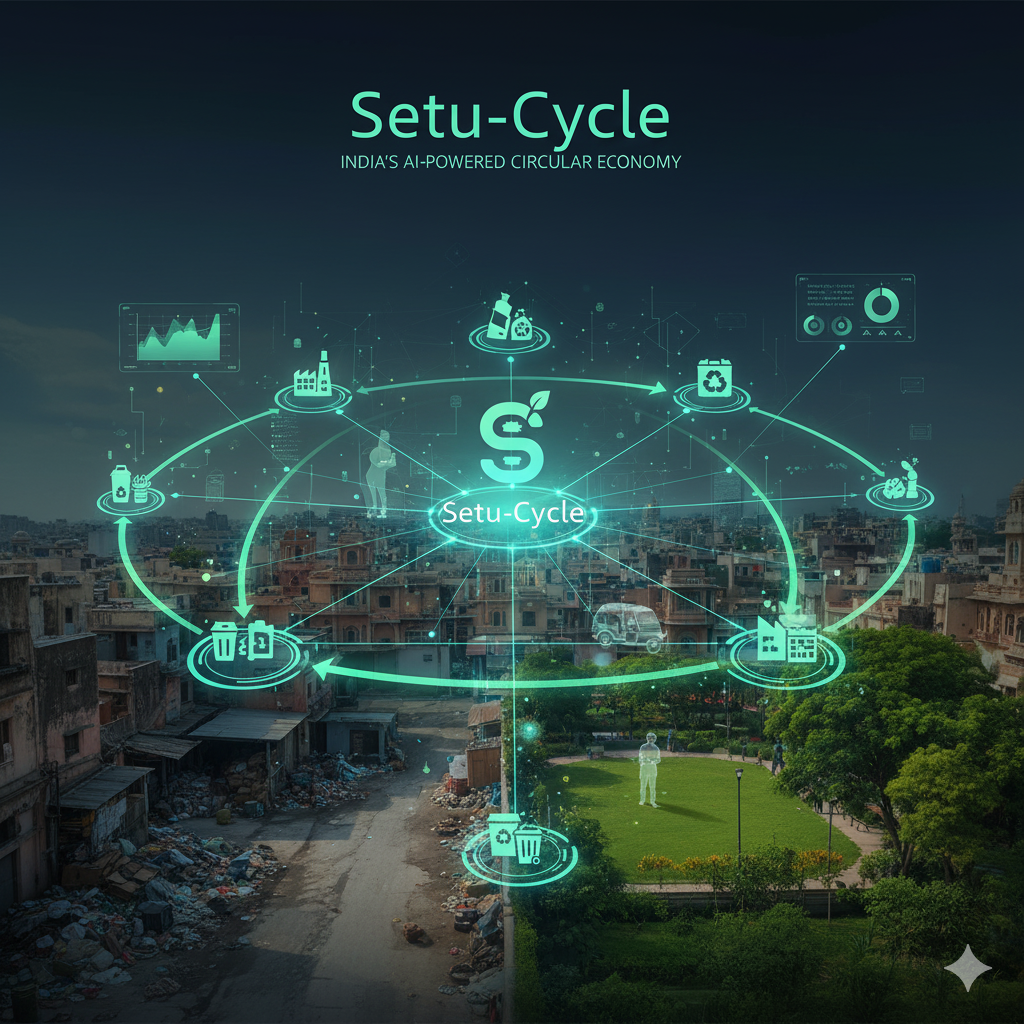
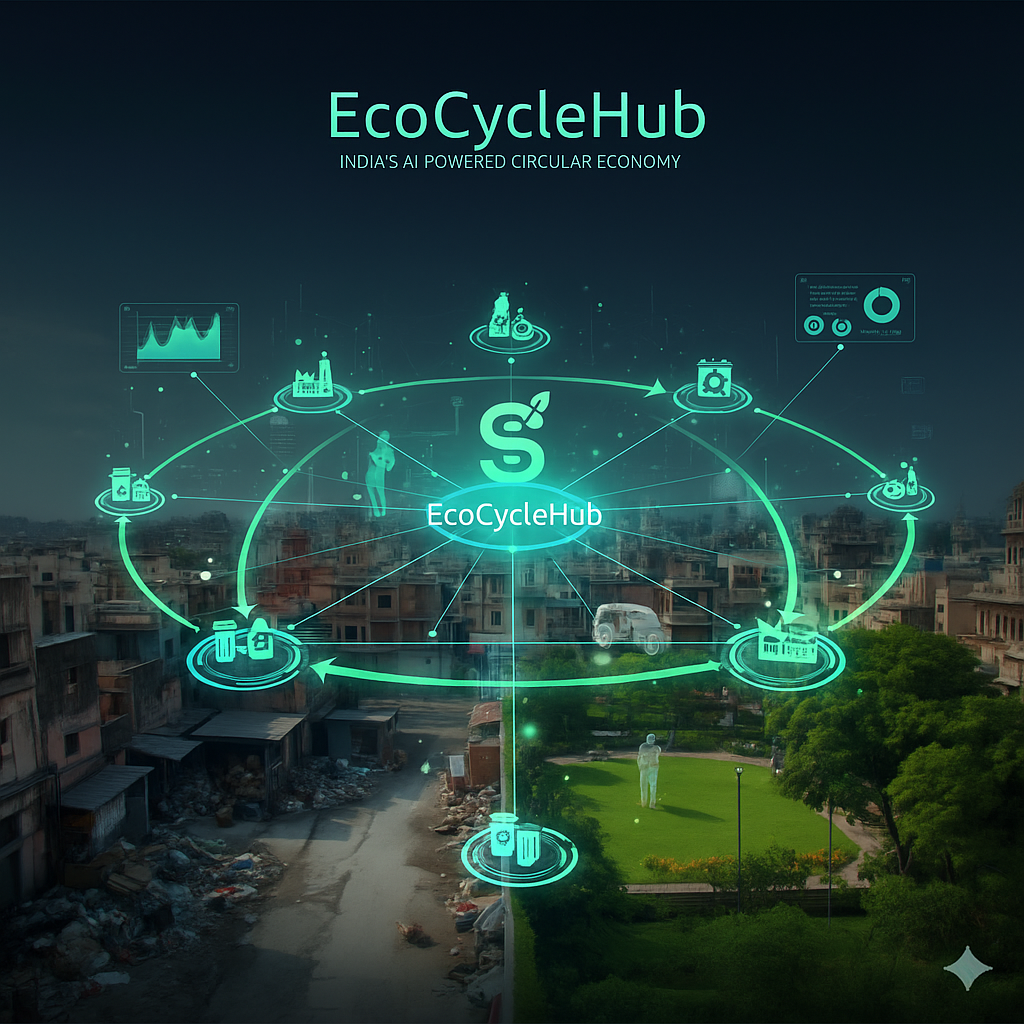
Setu to Ecocycle

diff --git a/frontend/collector_dashboard.html b/frontend/collector_dashboard.html
@@ -215,7 +215,7 @@
                             </div>
                             <div class="contact-details">
                                 <h4>Email</h4>
-                                <p>collectors@setucycle.com</p>
+                                <p>collectors@ecocyclehub.com</p>
                             </div>
                         </div>
                         <div class="contact-item">

diff --git a/frontend/customer_dashboard.html b/frontend/customer_dashboard.html
@@ -147,7 +147,7 @@
                             </div>
                             <div class="contact-details">
                                 <h4>Email</h4>
-                                <p>support@setucycle.com</p>
+                                <p>support@ecocyclehub.com</p>
                             </div>
                         </div>
                         <div class="contact-item">

diff --git a/frontend/about.html b/frontend/about.html
@@ -245,7 +245,7 @@
                         </div>
                         <div class="contact-details">
                             <h4>Email</h4>
-                            <p>support@setucycle.com</p>
+                            <p>support@ecocyclehub.com</p>
                         </div>
                     </div>
                     <div class="contact-item">

diff --git a/frontend/index.html b/frontend/index.html
@@ -100,7 +100,7 @@
                         </div>
                         <div class="contact-details">
                             <h4>Email</h4>
-                            <p>support@setucycle.com</p>
+                            <p>support@ecocyclehub.com</p>
                         </div>
                     </div>
                     <div class="contact-item">
